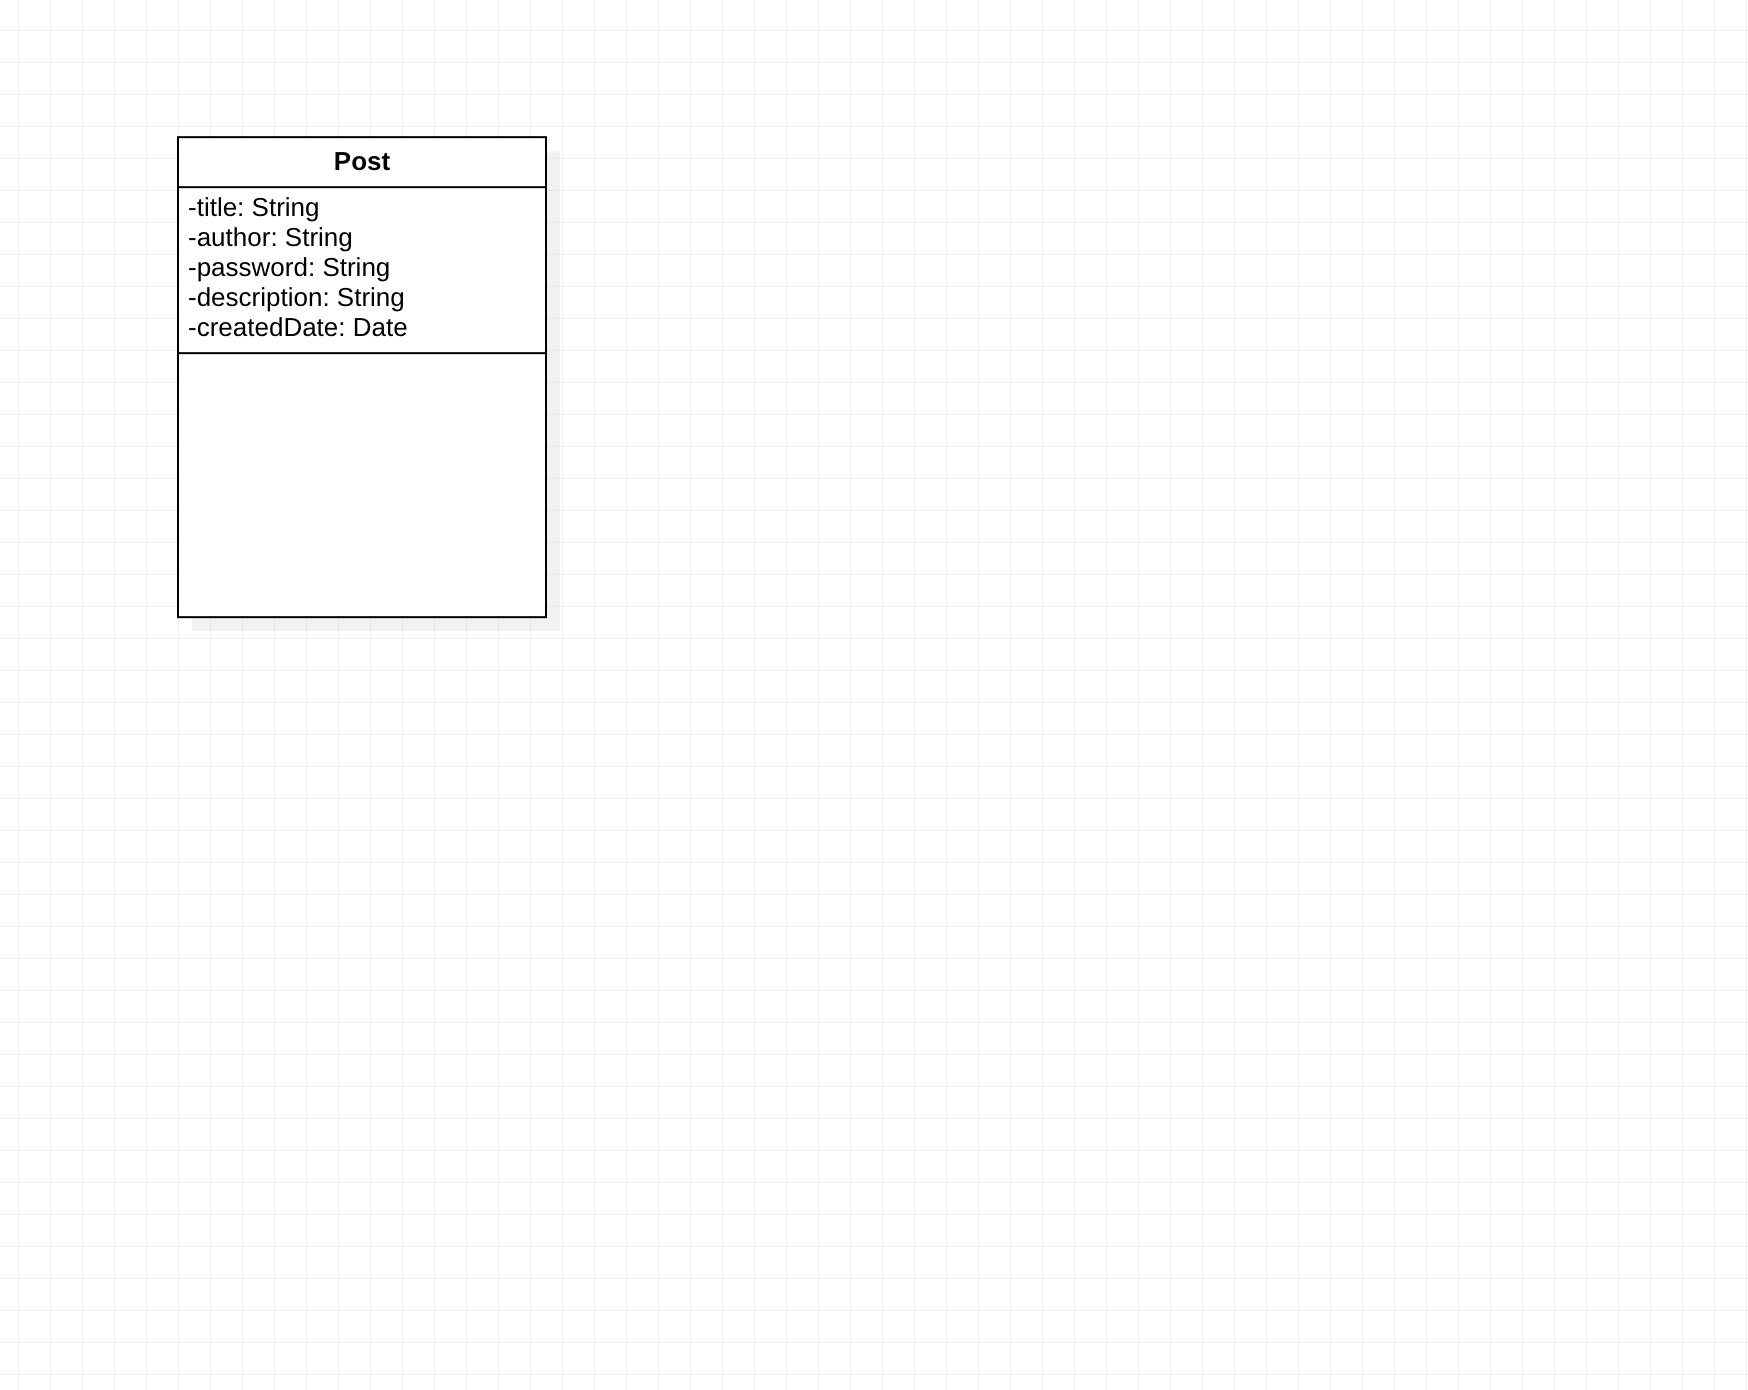
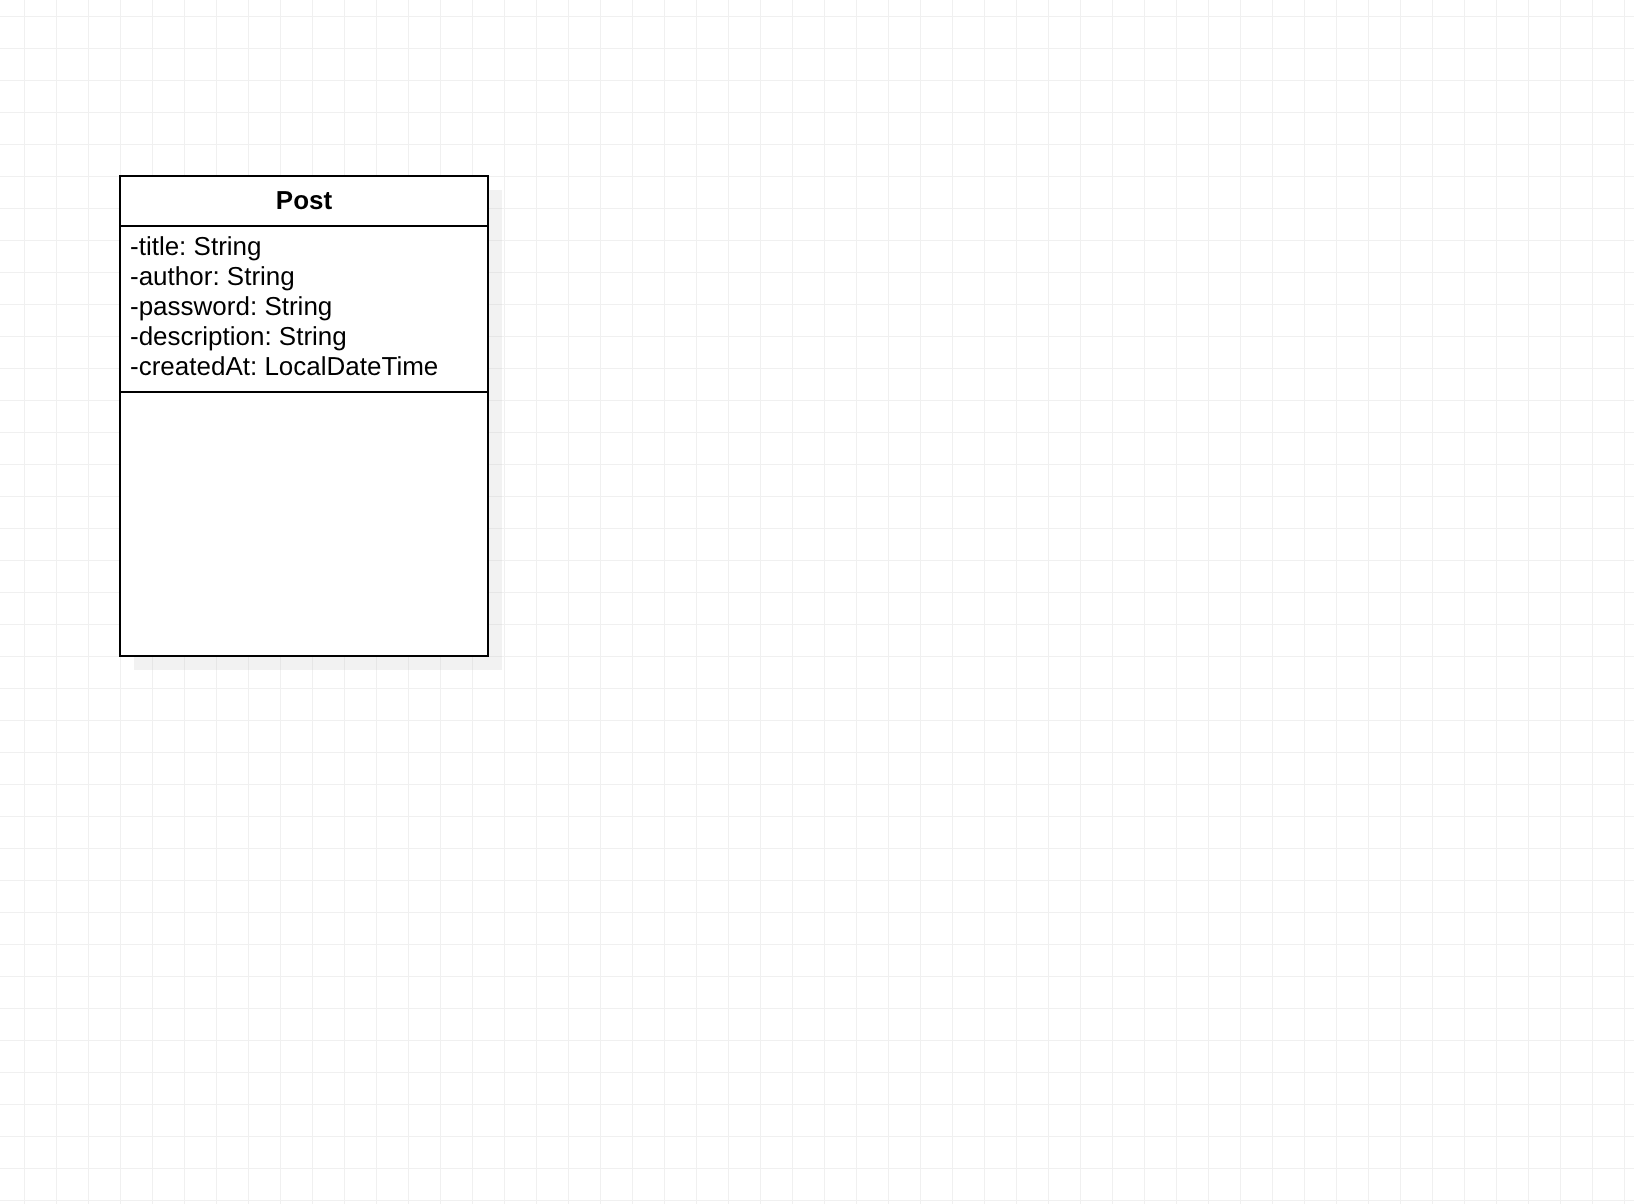
update(Post): Post domain 생성,수정 날짜 속성 추가

Changed region(s): [[0.0624, 0.0922, 0.3121, 0.338], [0.2809, 0.4302, 0.3121, 0.461], [0.2809, 0.2458, 0.3121, 0.2766]]

diff --git a/src/main/java/com/sparta/spartabulletinboardbackend/domain/Post.java b/src/main/java/com/sparta/spartabulletinboardbackend/domain/Post.java
@@ -6,8 +6,10 @@ import jakarta.persistence.GeneratedValue;
 import jakarta.persistence.Id;
 import lombok.Getter;
 import lombok.NoArgsConstructor;
+import org.springframework.data.annotation.CreatedDate;
+import org.springframework.data.annotation.LastModifiedDate;
 
-import java.util.Date;
+import java.time.LocalDateTime;
 
 @Entity
 @Getter
@@ -22,13 +24,16 @@ public class Post {
     private String author;
     private String password;
     private String description;
-    private Date createdDate;
 
-    public Post(String title, String author, String password, String description, Date createdDate) {
+    @CreatedDate
+    private LocalDateTime createdAt;
+    @LastModifiedDate
+    private LocalDateTime updatedAt;
+
+    public Post(String title, String author, String password, String description) {
         this.title = title;
         this.author = author;
         this.password = password;
         this.description = description;
-        this.createdDate = createdDate;
     }
 }

diff --git a/README.md b/README.md
@@ -41,13 +41,14 @@
 <br>
 
 # API Specification
-| Domain | Feature   |  Method  | URL                | Request                                                                                                   | Response                                                                                               | Exception | Description                           |
-|:------:|:----------|:--------:|--------------------|-----------------------------------------------------------------------------------------------------------|--------------------------------------------------------------------------------------------------------|-----------|---------------------------------------|
-|  Post  | 게시글 작성    |  `POST`  | /api/post          | { title: String<br/>author: String<br/>password: String<br/>description: String<br/>createdDate: String } | { title: String<br/>author: String<br/>description: String<br/>createdDate: String }                   |           | createData format: "yyyy-MM-dd HH:mm" |
-|  Post  | 게시글 목록 조회 |  `GET`   | /api/post          |                                                                                                           | { posts: [{<br/> postId: Long<br/>title: String<br/>author: String<br/>createdDate: String<br/>}, ...] |           |                                       |
-|  Post  | 게시글 단건 조회 |  `GET`   | /api/post/{postId} |                                                                                                           | { title: String<br/>author: String<br/>description: String<br/>createdDate: String }                   |           |                                       |
-|  Post  | 게시글 수정    |  `PUT`   | /api/post/{postId} | { password: String }                                                                                      | { title: String<br/>author: String<br/>description: String<br/>createdDate: String }                   |           |                                       |
-|  Post  | 게시글 삭제    | `DELETE` | /api/post/{postId} | { password: String }                                                                                      | true / false                                                                                           |           |                                       |
+| Domain | Feature     |  Method  | URL                         | Request                                                                           | Response                                                                                             | Exception | Description |
+|:------:|:------------|:--------:|-----------------------------|-----------------------------------------------------------------------------------|------------------------------------------------------------------------------------------------------|-----------|-------------|
+|  Post  | 게시글 작성      |  `POST`  | /api/post                   | { title: String<br/>author: String<br/>password: String<br/>description: String } | { title: String<br/>author: String<br/>description: String<br/>createdAt: String }                   |           |             |
+|  Post  | 게시글 목록 조회   |  `GET`   | /api/post                   |                                                                                   | { posts: [{<br/> postId: Long<br/>title: String<br/>author: String<br/>createdAt: String<br/>}, ...] |           |             |
+|  Post  | 게시글 단건 조회   |  `GET`   | /api/post/{postId}          |                                                                                   | { title: String<br/>author: String<br/>description: String<br/>createdAt: String }                   |           |             |
+|  Post  | 게시글 수정      |  `PUT`   | /api/post/{postId}          | { title: String<br/>author: String<br/>description: String }                      | { title: String<br/>author: String<br/>description: String<br/>createdAt: String }                   |           |             |
+|  Post  | 게시글 삭제      | `DELETE` | /api/post/{postId}          |                                                                                   | true / false                                                                                         |           |             |
+|  Post  | 게시글 비밀번호 검증 |  `POST`  | /api/post/password/{postId} | { password: String }                                                              | true / false                                                                                         |           |             |
 
 <br>
 
